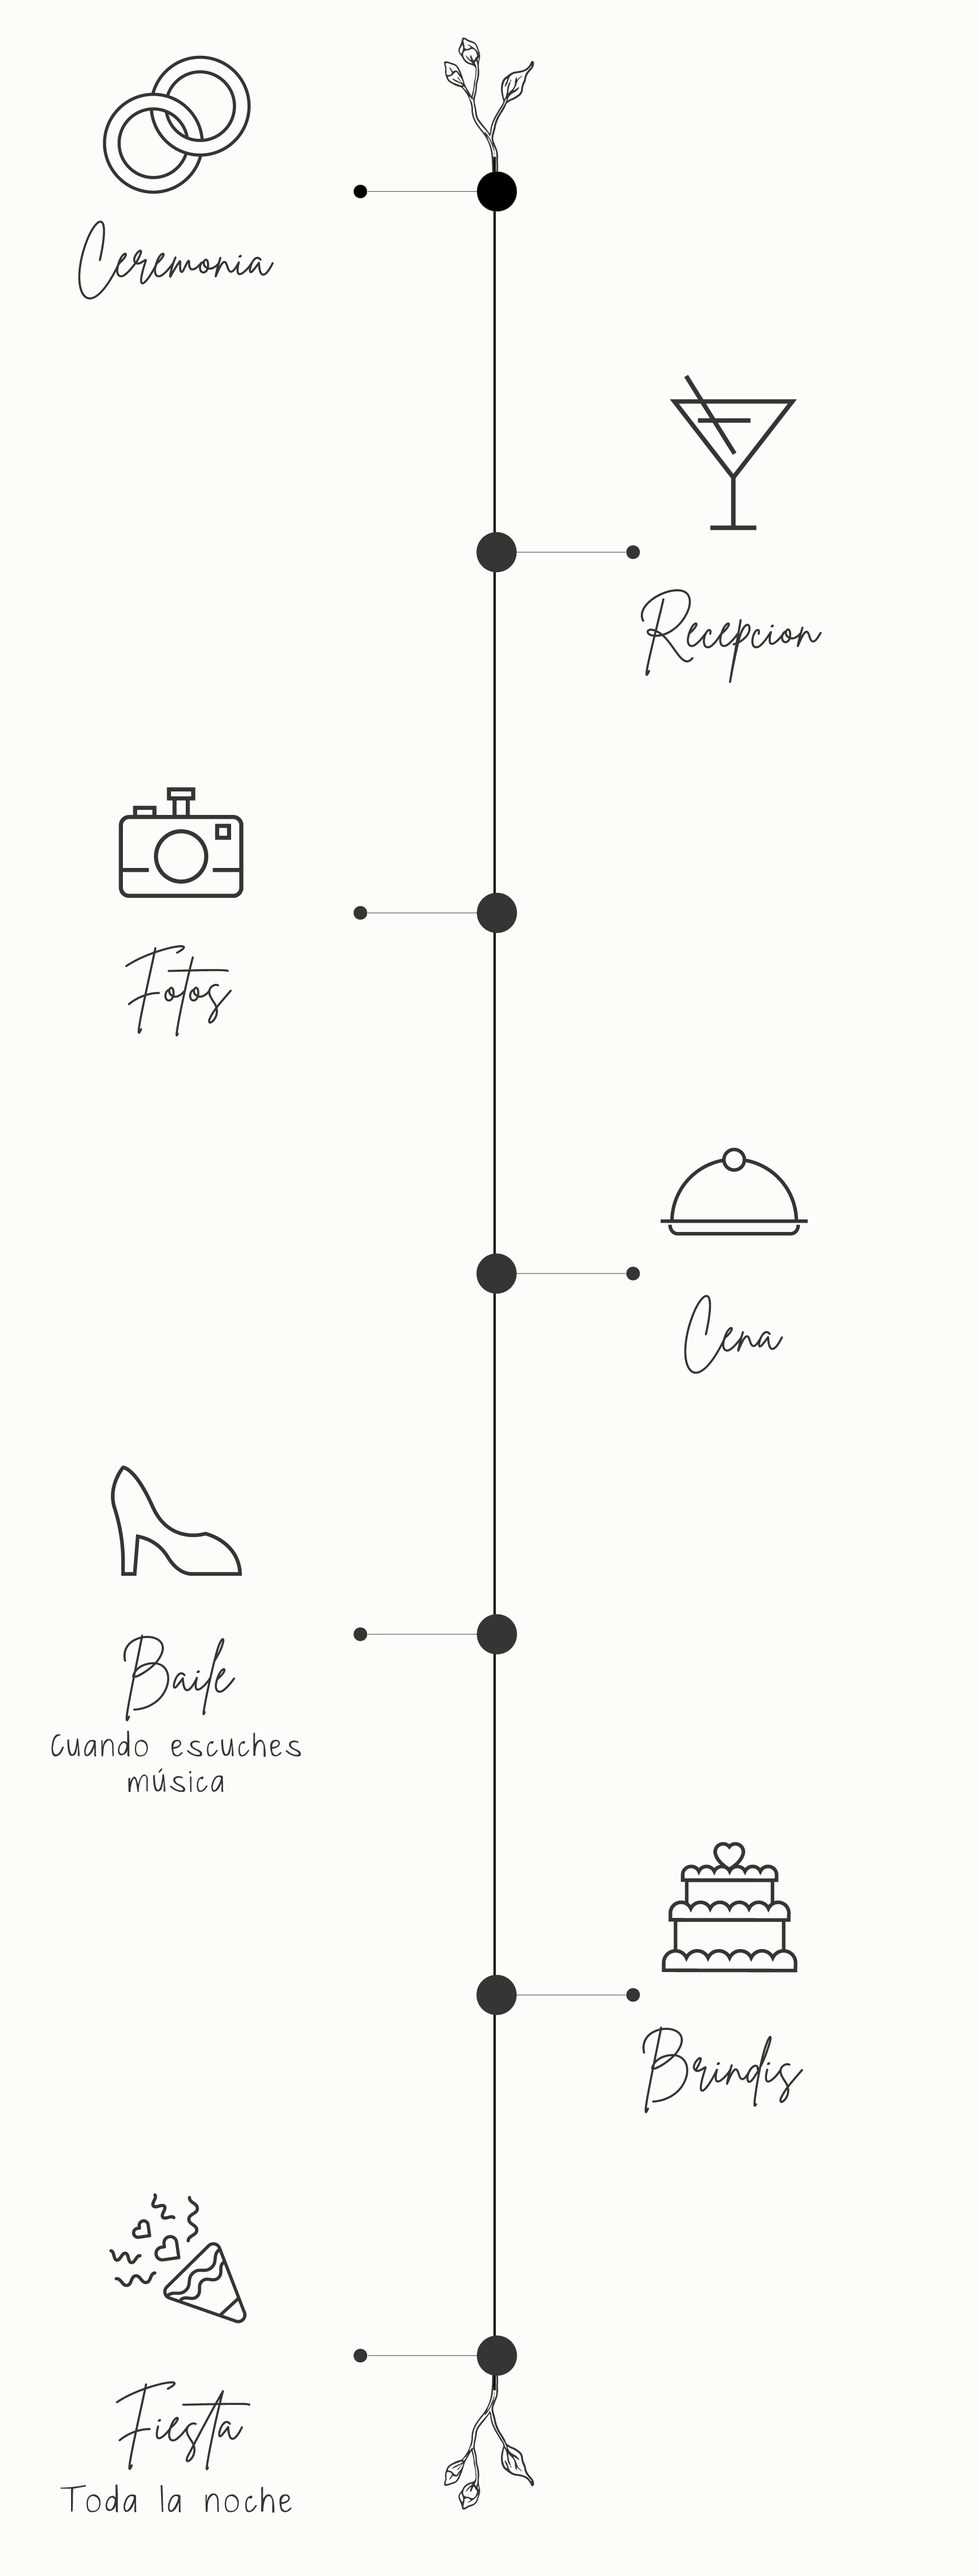
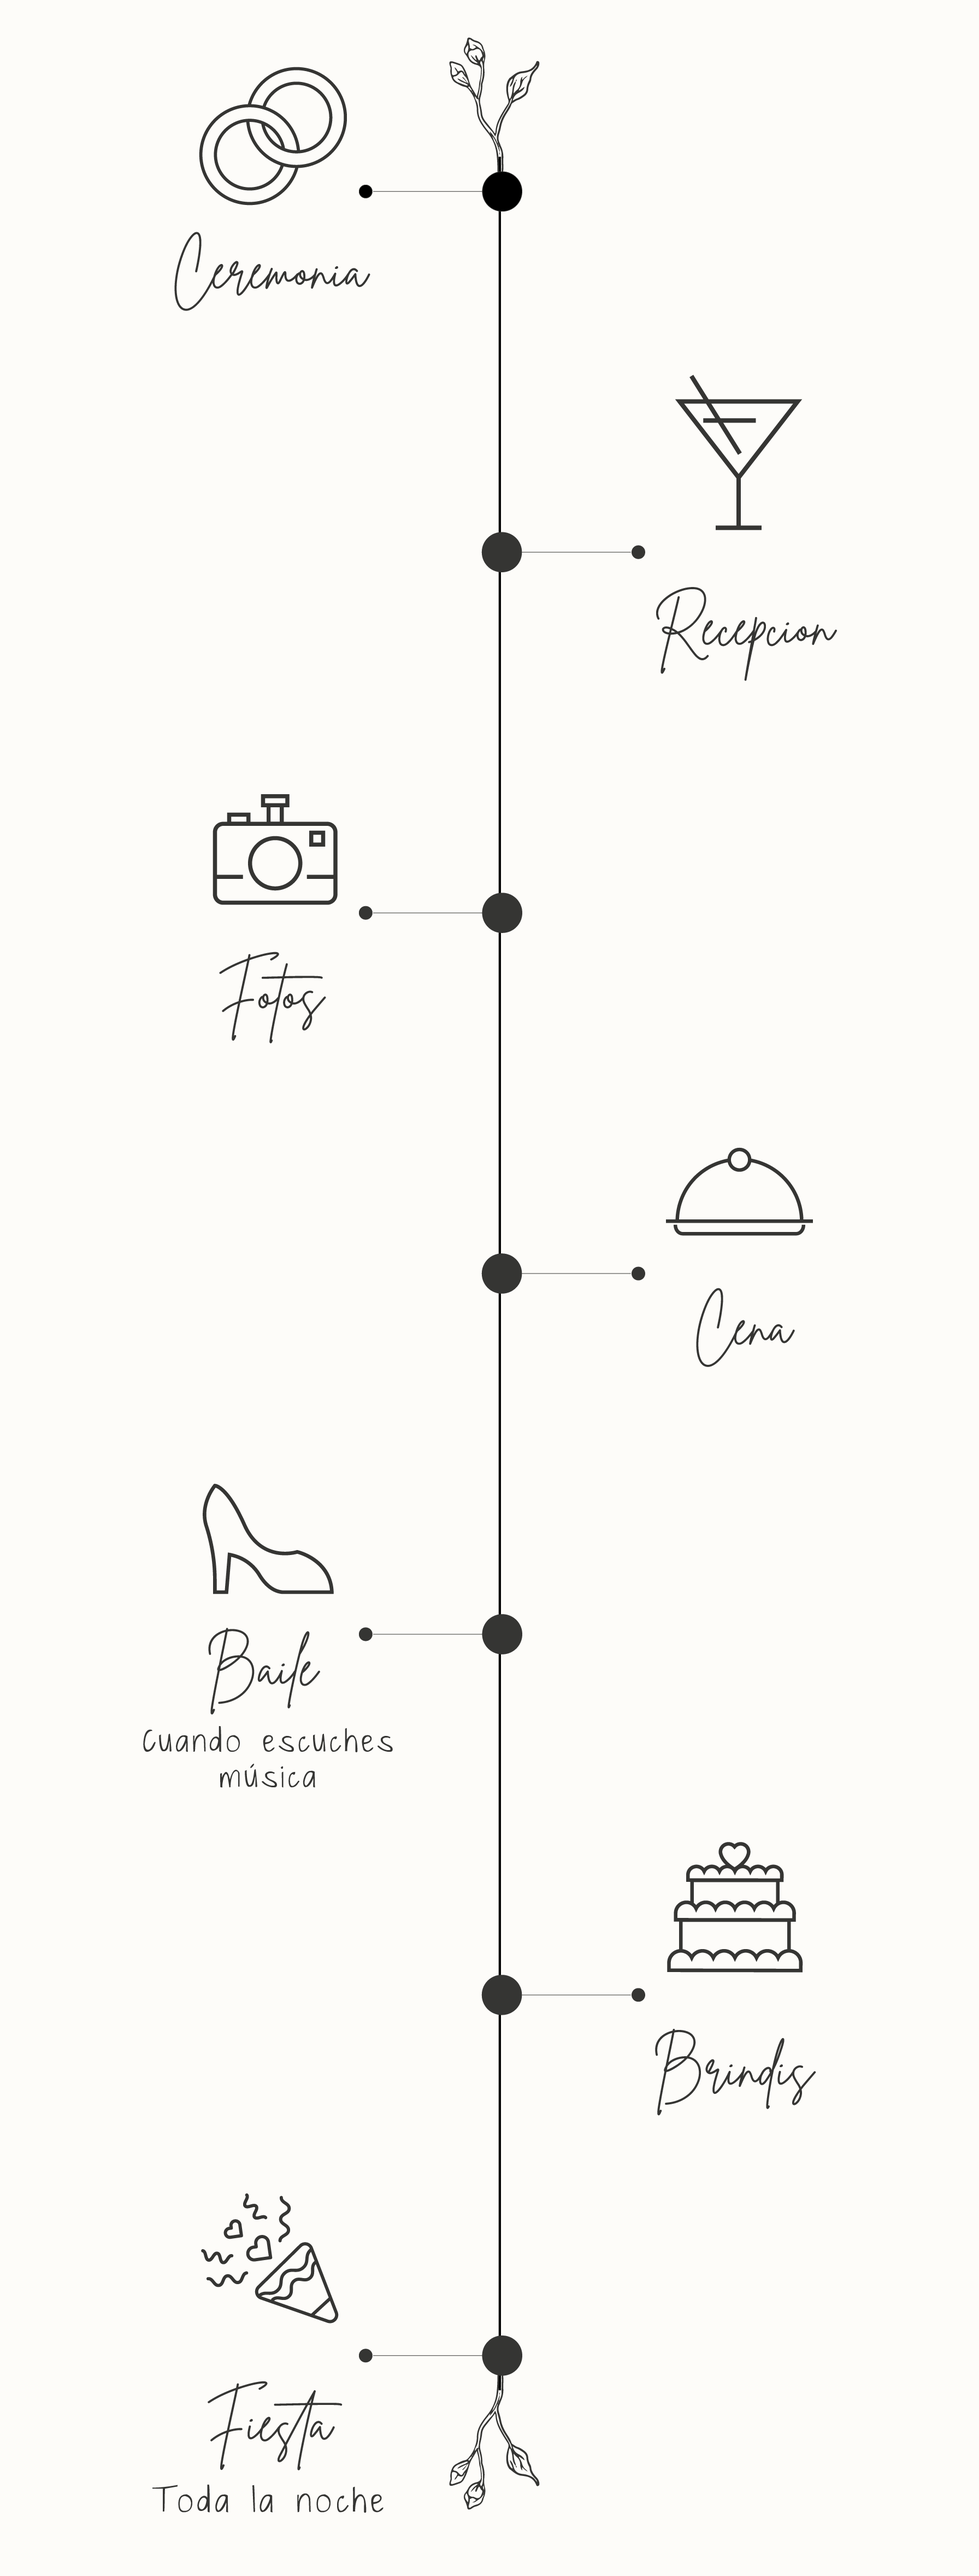
Sexta version

diff --git a/style.css b/style.css
@@ -55,6 +55,10 @@ section {
   align-items: center;
 }
 
+.salto-movil {
+  display: none;
+}
+
 .icon {
   width: 115px;
 }
@@ -88,7 +92,7 @@ section {
 }
 
 .itinerario .itinerario-web {
-  width: 65rem;
+  width: 75rem;
 }
 
 .itinerario .itinerario-movil {
@@ -337,12 +341,25 @@ p {
   .contador {
     font-size: 1.2rem;
   }
+
+  .itinerario .itinerario-movil {
+    display: block;
+    width: 22rem;
+  }
+
+  .itinerario .itinerario-web {
+    display: none;
+  }
 }
 
 /* Móviles */
 @media (max-width: 600px) {
   h3 {
     font-size: 1.8rem;
+  }
+
+  .salto-movil {
+    display: block;
   }
 
   .hero {

diff --git a/index.html b/index.html
@@ -26,7 +26,7 @@
         <img src="assets/img/anillos.png" alt="Anillos" class="icon">
         <h2 style="font-weight: 100;">Ceremonia y Fiesta</h2>
         <h2>29 de Noviembre de 2025</h2>
-        <p>17:45 hs <br> Los Cipreses II <br> 25 de Mayo 1356, Ministro Rivadavia, <br> Buenos Aires</p>
+        <p>17:45 hs <br> Los Cipreses II <br> 25 de Mayo 1356, <br class="salto-movil"> Ministro Rivadavia, <br> Buenos Aires</p>
         <p>¡Te esperamos!</p>
         <a href="https://maps.app.goo.gl/5KC1SRrCDYPDQrRV8" target="_blank" class="btn">COMO LLEGAR</a>
     </section>
